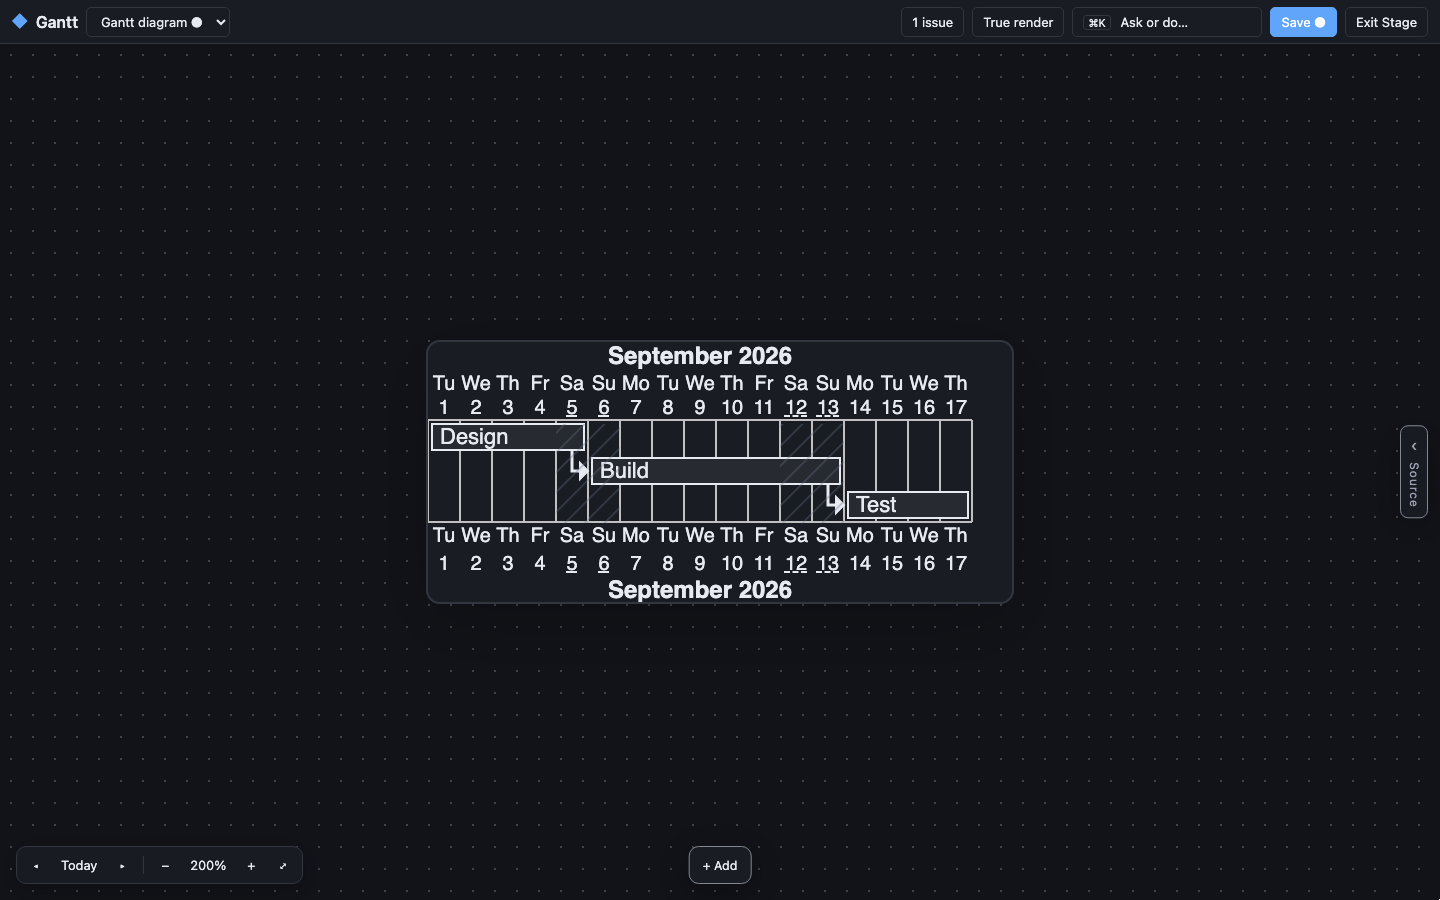
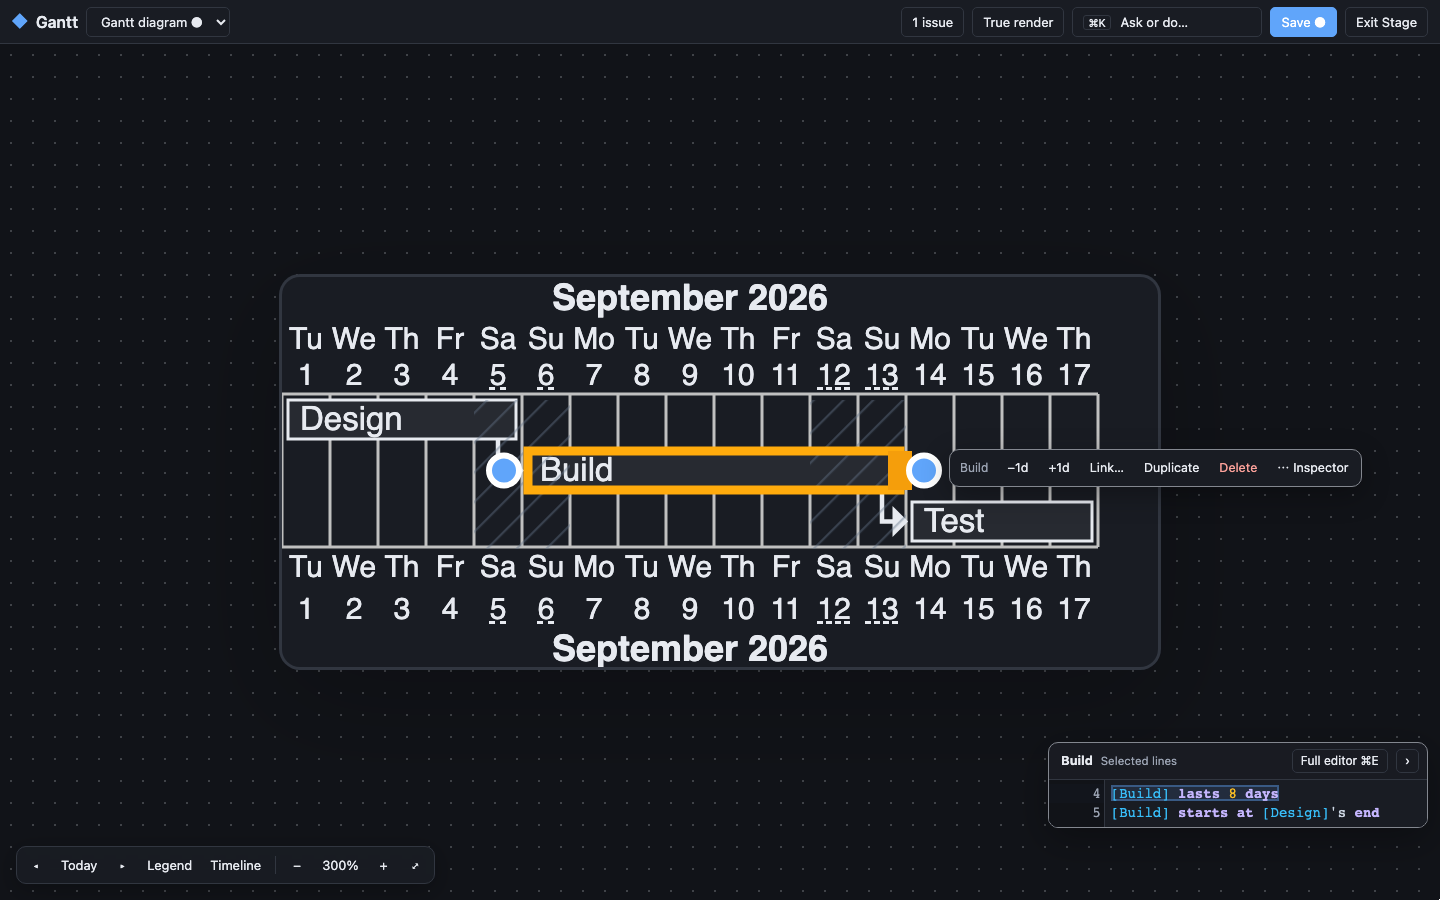
Stage: e2e for other families, rename, reload and duplicate; refreshed screenshots

diff --git a/tests/e2e/stage-mode.spec.ts b/tests/e2e/stage-mode.spec.ts
@@ -150,6 +150,134 @@ test.describe("Stage mode", () => {
     await expect(page.getByRole("option", { name: /Split view/ }).first()).toBeVisible();
   });
 
+  test("a duplicated dependent task starts where the original does and can be resized and dragged", async ({
+    page,
+  }) => {
+    await prepareEditor(page);
+    await setSource(page, gantt);
+    await page
+      .getByRole("navigation", { name: "View mode" })
+      .getByRole("button", { name: "Stage", exact: true })
+      .click();
+    await page.locator('.diagram [data-task-id="build"]').first().click();
+    await page.getByRole("toolbar", { name: "Actions for Build" }).getByRole("button", { name: "Duplicate" }).click();
+    const dock = page.getByRole("toolbar", { name: "Actions for Build copy" });
+    await expect(dock).toBeVisible();
+    // The copy inherits the original's incoming dependency, so it starts in the same place.
+    await expect.poll(() => readEditorSource(page)).toContain("[Build copy] starts at [Design]'s end");
+    const lens = page.getByTestId("source-lens");
+    await expect(lens.locator(".cm-content")).toContainText("[Build copy] lasts 8 days");
+
+    await dock.getByRole("button", { name: "+1d" }).click();
+    await expect(lens.locator(".cm-content")).toContainText("[Build copy] lasts 9 days");
+
+    // Dragging the copy moves it (the source changes); before the fix it had no start to move.
+    const before = await readEditorSource(page);
+    const bar = page.locator('.diagram [data-task-id="build copy"]').first();
+    const box = (await bar.boundingBox())!;
+    await page.mouse.move(box.x + box.width / 2, box.y + box.height / 2);
+    await page.mouse.down();
+    await page.mouse.move(box.x + box.width / 2 + 90, box.y + box.height / 2, { steps: 8 });
+    await page.mouse.up();
+    await expect.poll(() => readEditorSource(page), { timeout: 15_000 }).not.toBe(before);
+  });
+
+  test("WBS dock adds a child, the lens shows the node's line, and dock and node line up", async ({ page }) => {
+    await prepareEditor(page);
+    await page.getByRole("button", { name: "New diagram tab" }).click();
+    const chooser = page.getByRole("dialog", { name: "Choose a diagram type" });
+    await chooser.getByRole("button", { name: "WBS diagram" }).click();
+    await chooser.getByRole("button", { name: "Create diagram", exact: true }).click();
+    await setSource(page, "@startwbs\n* Project\n** Discovery\n** Delivery\n@endwbs");
+    await page
+      .getByRole("navigation", { name: "View mode" })
+      .getByRole("button", { name: "Stage", exact: true })
+      .click();
+    const node = page.locator("[data-wbs-node-id]").filter({ hasText: "Discovery" }).first();
+    await node.click();
+    const dock = page.getByRole("toolbar", { name: "Actions for Discovery" });
+    await expect(dock).toBeVisible();
+    await expect(dock.getByRole("button", { name: "Rename" })).toBeVisible();
+    const lens = page.getByTestId("source-lens");
+    await expect(lens.locator(".cm-content")).toContainText("** Discovery");
+    await expect(lens.locator(".cm-content")).not.toContainText("** Delivery");
+
+    // Overlay alignment at fit zoom: the node is inside the canvas and the dock sits next to it, not on it.
+    const nodeBox = (await node.boundingBox())!;
+    const dockBox = (await dock.boundingBox())!;
+    const canvas = (await page.locator(".preview-viewport").boundingBox())!;
+    expect(nodeBox.x).toBeGreaterThanOrEqual(canvas.x - 1);
+    expect(nodeBox.x + nodeBox.width).toBeLessThanOrEqual(canvas.x + canvas.width + 1);
+    const overlaps =
+      dockBox.x < nodeBox.x + nodeBox.width &&
+      dockBox.x + dockBox.width > nodeBox.x &&
+      dockBox.y < nodeBox.y + nodeBox.height &&
+      dockBox.y + dockBox.height > nodeBox.y;
+    expect(overlaps).toBe(false);
+
+    await dock.getByRole("button", { name: "+ Child" }).click();
+    await expect(page.locator(".diagram svg")).toContainText("New item", { timeout: 20_000 });
+    await expect(page.getByRole("toolbar", { name: /Actions for/ })).toBeVisible();
+  });
+
+  test("renaming in the lens keeps the dock and lens on the element", async ({ page }) => {
+    await prepareEditor(page);
+    await setSource(page, source("[Solo] lasts 3 days\n[Other] lasts 2 days"));
+    await page
+      .getByRole("navigation", { name: "View mode" })
+      .getByRole("button", { name: "Stage", exact: true })
+      .click();
+    await page.locator('.diagram [data-task-id="solo"]').first().click();
+    const lens = page.getByTestId("source-lens");
+    await expect(page.getByRole("toolbar", { name: "Actions for Solo" })).toBeVisible();
+    await page.getByRole("toolbar", { name: "Actions for Solo" }).getByRole("button", { name: "Open inspector" });
+    await lens.locator(".cm-line", { hasText: "lasts 3 days" }).click();
+    await page.keyboard.press("Home");
+    await page.keyboard.press("Shift+End");
+    await page.keyboard.insertText("[Soloist] lasts 3 days");
+    await expect(page.getByRole("toolbar", { name: "Actions for Soloist" })).toBeVisible({ timeout: 15_000 });
+    await expect(lens).toHaveAttribute("data-state", "peek");
+    await expect(lens.locator(".cm-content")).toContainText("[Soloist] lasts 3 days");
+    await expect(lens.locator(".cm-content")).not.toContainText("[Other]");
+  });
+
+  test("Stage survives a reload", async ({ page }) => {
+    await prepareEditor(page);
+    await setSource(page, gantt);
+    await page
+      .getByRole("navigation", { name: "View mode" })
+      .getByRole("button", { name: "Stage", exact: true })
+      .click();
+    await page.locator('.diagram [data-task-id="build"]').first().click();
+    await expect(page.getByRole("toolbar", { name: "Actions for Build" })).toBeVisible();
+    // Persistence is debounced; wait for the recovery copy before reloading.
+    await page.waitForTimeout(1500);
+    await page.reload();
+    await expect(page.locator(".workspace.mode-stage")).toBeVisible({ timeout: 20_000 });
+    await expect(page.locator(".diagram svg")).toBeVisible({ timeout: 45_000 });
+    // The canvas outline and the dock agree: either both show a selection or neither does.
+    const outlined = await page.locator(".diagram [data-selected='true']").count();
+    const docked = await page.getByRole("toolbar", { name: /Actions for/ }).count();
+    expect(outlined > 0).toBe(docked > 0);
+  });
+
+  test("cluster navigation calls the preview handlers and the legend toggle is collapsed by default", async ({
+    page,
+  }) => {
+    await prepareEditor(page);
+    await setSource(page, gantt);
+    await page
+      .getByRole("navigation", { name: "View mode" })
+      .getByRole("button", { name: "Stage", exact: true })
+      .click();
+    const cluster = page.getByTestId("stage-cluster");
+    await expect(page.locator(".timeline-minimap")).toBeHidden();
+    await cluster.getByRole("button", { name: "Timeline" }).click();
+    await expect(page.locator(".timeline-minimap")).toBeVisible();
+    await cluster.getByRole("button", { name: "Next task" }).click();
+    await expect(page.getByRole("toolbar", { name: /Actions for/ })).toBeVisible();
+  });
+
   test("True render shows the diagram as exported in the dark theme", async ({ page }) => {
     await page.emulateMedia({ colorScheme: "dark" });
     await prepareEditor(page);
